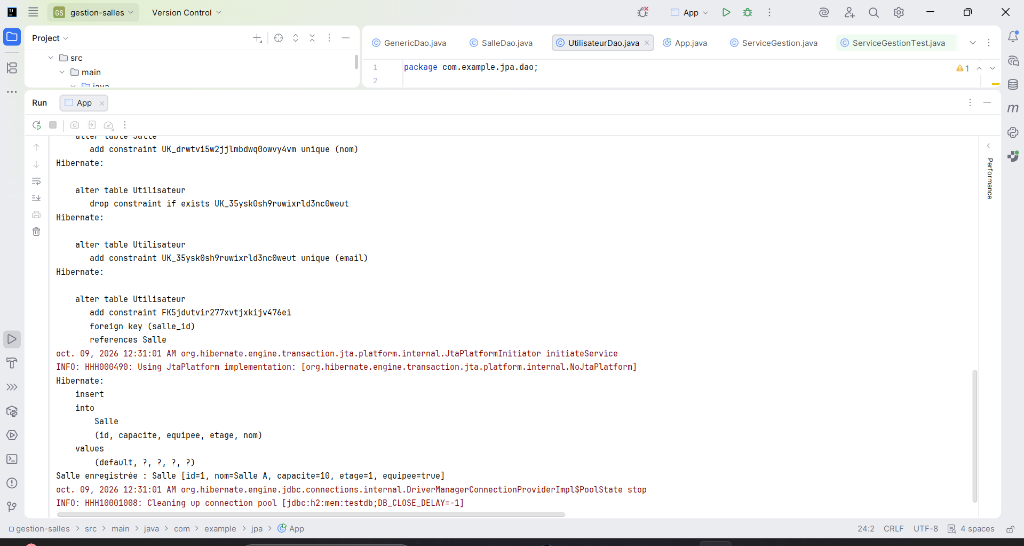
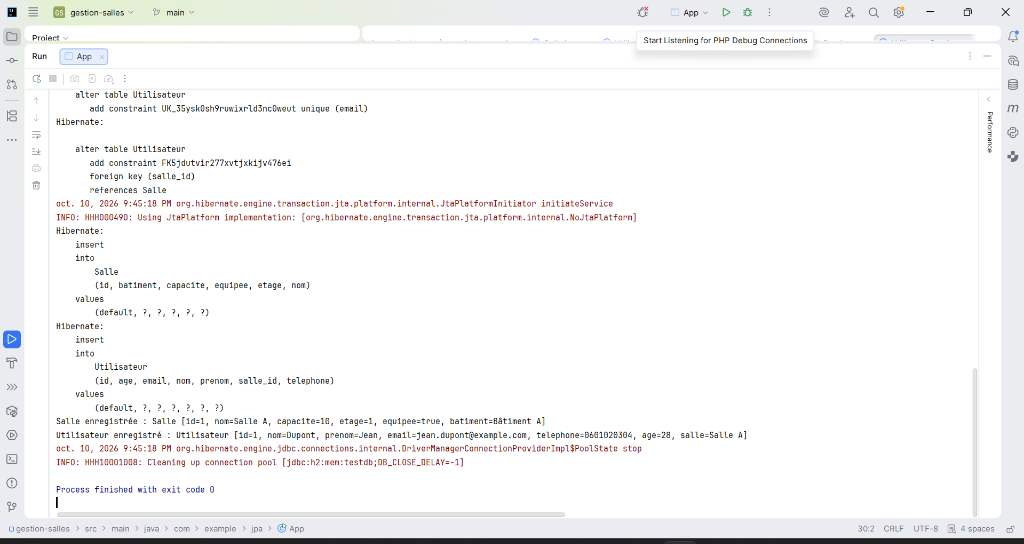
feat: ajout batiment dans Salle et prenom dans Utilisateur avec mise a jour screenshots

diff --git a/src/test/java/com/example/jpa/test/ServiceGestionTest.java b/src/test/java/com/example/jpa/test/ServiceGestionTest.java
@@ -27,7 +27,7 @@ public class ServiceGestionTest {
 
     @Test
     public void testCreationEtRechercheSalle() {
-        Salle salle = new Salle("Salle Test", 20, 2, true);
+        Salle salle = new Salle("Salle Test", 20, 2, true, "Bâtiment A");
         service.ajouterSalle(salle);
 
         List<Salle> salles = service.listerSalles();
@@ -40,21 +40,23 @@ public class ServiceGestionTest {
         assertEquals(20, trouvee.getCapacite());
         assertEquals(2, trouvee.getEtage());
         assertTrue(trouvee.isEquipee());
+        assertEquals("Bâtiment A", trouvee.getBatiment());
     }
 
     @Test
     public void testCreationUtilisateurAvecSalle() {
-        Salle salle = new Salle("Salle B", 15, 1, false);
+        Salle salle = new Salle("Salle B", 15, 1, false, "Bâtiment B");
         service.ajouterSalle(salle);
 
-        Utilisateur utilisateur = new Utilisateur("Alice", "alice@example.com", "0600000000", 25, salle);
+        Utilisateur utilisateur = new Utilisateur("Dupont", "Alice", "alice@example.com", "0600000000", 25, salle);
         service.ajouterUtilisateur(utilisateur);
 
         Utilisateur trouve = service.listerUtilisateurs().stream()
                 .filter(u -> u.getEmail().equals("alice@example.com"))
                 .findFirst().orElse(null);
         assertNotNull(trouve);
-        assertEquals("Alice", trouve.getNom());
+        assertEquals("Dupont", trouve.getNom());
+        assertEquals("Alice", trouve.getPrenom());
         assertEquals("0600000000", trouve.getTelephone());
         assertEquals(25, trouve.getAge());
         assertEquals("Salle B", trouve.getSalle().getNom());
@@ -62,15 +64,32 @@ public class ServiceGestionTest {
 
     @Test
     public void testRechercheUtilisateursParSalle() {
-        Salle salle = new Salle("Salle C", 30, 3, true);
+        Salle salle = new Salle("Salle C", 30, 3, true, "Bâtiment C");
         service.ajouterSalle(salle);
 
-        Utilisateur u1 = new Utilisateur("Bob", "bob@example.com", "0611111111", 30, salle);
-        Utilisateur u2 = new Utilisateur("Carol", "carol@example.com", "0622222222", 28, salle);
+        Utilisateur u1 = new Utilisateur("Martin", "Bob", "bob@example.com", "0611111111", 30, salle);
+        Utilisateur u2 = new Utilisateur("Durand", "Carol", "carol@example.com", "0622222222", 28, salle);
         service.ajouterUtilisateur(u1);
         service.ajouterUtilisateur(u2);
 
         List<Utilisateur> utilisateurs = service.utilisateursParSalle("Salle C");
         assertEquals(2, utilisateurs.size());
+    }
+
+    @Test
+    public void testRechercheParBatimentEtPrenom() {
+        Salle salle = new Salle("Salle D", 40, 1, true, "Bâtiment D");
+        service.ajouterSalle(salle);
+
+        Utilisateur u = new Utilisateur("Moreau", "David", "david@example.com", "0633333333", 35, salle);
+        service.ajouterUtilisateur(u);
+
+        List<Salle> sallesBatiment = service.sallesParBatiment("Bâtiment D");
+        assertEquals(1, sallesBatiment.size());
+        assertEquals("Salle D", sallesBatiment.get(0).getNom());
+
+        List<Utilisateur> utilisateursPrenom = service.utilisateursParPrenom("David");
+        assertEquals(1, utilisateursPrenom.size());
+        assertEquals("Moreau", utilisateursPrenom.get(0).getNom());
     }
 }

diff --git a/src/main/java/com/example/jpa/entities/Utilisateur.java b/src/main/java/com/example/jpa/entities/Utilisateur.java
@@ -12,6 +12,9 @@ public class Utilisateur {
     @Column(nullable = false)
     private String nom;
 
+    @Column(nullable = false)
+    private String prenom;
+
     @Column(nullable = false, unique = true)
     private String email;
 
@@ -28,7 +31,12 @@ public class Utilisateur {
     public Utilisateur() {}
 
     public Utilisateur(String nom, String email, String telephone, int age, Salle salle) {
+        this(nom, "", email, telephone, age, salle);
+    }
+
+    public Utilisateur(String nom, String prenom, String email, String telephone, int age, Salle salle) {
         this.nom = nom;
+        this.prenom = prenom;
         this.email = email;
         this.telephone = telephone;
         this.age = age;
@@ -39,6 +47,9 @@ public class Utilisateur {
 
     public String getNom() { return nom; }
     public void setNom(String nom) { this.nom = nom; }
+
+    public String getPrenom() { return prenom; }
+    public void setPrenom(String prenom) { this.prenom = prenom; }
 
     public String getEmail() { return email; }
     public void setEmail(String email) { this.email = email; }
@@ -54,7 +65,7 @@ public class Utilisateur {
 
     @Override
     public String toString() {
-        return "Utilisateur [id=" + id + ", nom=" + nom + ", email=" + email
+        return "Utilisateur [id=" + id + ", nom=" + nom + ", prenom=" + prenom + ", email=" + email
                 + ", telephone=" + telephone + ", age=" + age
                 + ", salle=" + (salle != null ? salle.getNom() : "aucune") + "]";
     }

diff --git a/src/main/java/com/example/jpa/entities/Salle.java b/src/main/java/com/example/jpa/entities/Salle.java
@@ -21,13 +21,21 @@ public class Salle {
     @Column(nullable = false)
     private boolean equipee;
 
+    @Column(nullable = false)
+    private String batiment;
+
     public Salle() {}
 
     public Salle(String nom, int capacite, int etage, boolean equipee) {
+        this(nom, capacite, etage, equipee, "Principal");
+    }
+
+    public Salle(String nom, int capacite, int etage, boolean equipee, String batiment) {
         this.nom = nom;
         this.capacite = capacite;
         this.etage = etage;
         this.equipee = equipee;
+        this.batiment = batiment;
     }
 
     public Long getId() { return id; }
@@ -44,9 +52,12 @@ public class Salle {
     public boolean isEquipee() { return equipee; }
     public void setEquipee(boolean equipee) { this.equipee = equipee; }
 
+    public String getBatiment() { return batiment; }
+    public void setBatiment(String batiment) { this.batiment = batiment; }
+
     @Override
     public String toString() {
         return "Salle [id=" + id + ", nom=" + nom + ", capacite=" + capacite
-                + ", etage=" + etage + ", equipee=" + equipee + "]";
+                + ", etage=" + etage + ", equipee=" + equipee + ", batiment=" + batiment + "]";
     }
 }

diff --git a/src/main/java/com/example/jpa/App.java b/src/main/java/com/example/jpa/App.java
@@ -1,6 +1,7 @@
 package com.example.jpa;
 
 import com.example.jpa.entities.Salle;
+import com.example.jpa.entities.Utilisateur;
 
 import javax.persistence.EntityManager;
 import javax.persistence.EntityManagerFactory;
@@ -15,10 +16,15 @@ public class App {
 
         try {
             tx.begin();
-            Salle salle = new Salle("Salle A", 10, 1, true);
+            Salle salle = new Salle("Salle A", 10, 1, true, "Bâtiment A");
             em.persist(salle);
+
+            Utilisateur utilisateur = new Utilisateur("Dupont", "Jean", "jean.dupont@example.com", "0601020304", 28, salle);
+            em.persist(utilisateur);
+
             tx.commit();
             System.out.println("Salle enregistrée : " + salle);
+            System.out.println("Utilisateur enregistré : " + utilisateur);
         } catch (Exception e) {
             if (tx.isActive()) tx.rollback();
             e.printStackTrace();

diff --git a/src/main/java/com/example/jpa/dao/UtilisateurDao.java b/src/main/java/com/example/jpa/dao/UtilisateurDao.java
@@ -21,4 +21,10 @@ public class UtilisateurDao extends GenericDao<Utilisateur> {
                 .setParameter("pattern", "%" + texte + "%")
                 .getResultList();
     }
+
+    public List<Utilisateur> findByPrenom(String prenom) {
+        return em.createQuery("SELECT u FROM Utilisateur u WHERE u.prenom = :prenom", Utilisateur.class)
+                .setParameter("prenom", prenom)
+                .getResultList();
+    }
 }

diff --git a/src/main/java/com/example/jpa/service/ServiceGestion.java b/src/main/java/com/example/jpa/service/ServiceGestion.java
@@ -48,4 +48,12 @@ public class ServiceGestion {
     public List<Utilisateur> utilisateursParSalle(String nomSalle) {
         return utilisateurDao.findBySalleNom(nomSalle);
     }
+
+    public List<Salle> sallesParBatiment(String batiment) {
+        return salleDao.findByBatiment(batiment);
+    }
+
+    public List<Utilisateur> utilisateursParPrenom(String prenom) {
+        return utilisateurDao.findByPrenom(prenom);
+    }
 }

diff --git a/src/main/java/com/example/jpa/dao/SalleDao.java b/src/main/java/com/example/jpa/dao/SalleDao.java
@@ -27,4 +27,10 @@ public class SalleDao extends GenericDao<Salle> {
                 .setParameter("minCapacite", minCapacite)
                 .getResultList();
     }
+
+    public List<Salle> findByBatiment(String batiment) {
+        return em.createQuery("SELECT s FROM Salle s WHERE s.batiment = :batiment", Salle.class)
+                .setParameter("batiment", batiment)
+                .getResultList();
+    }
 }
